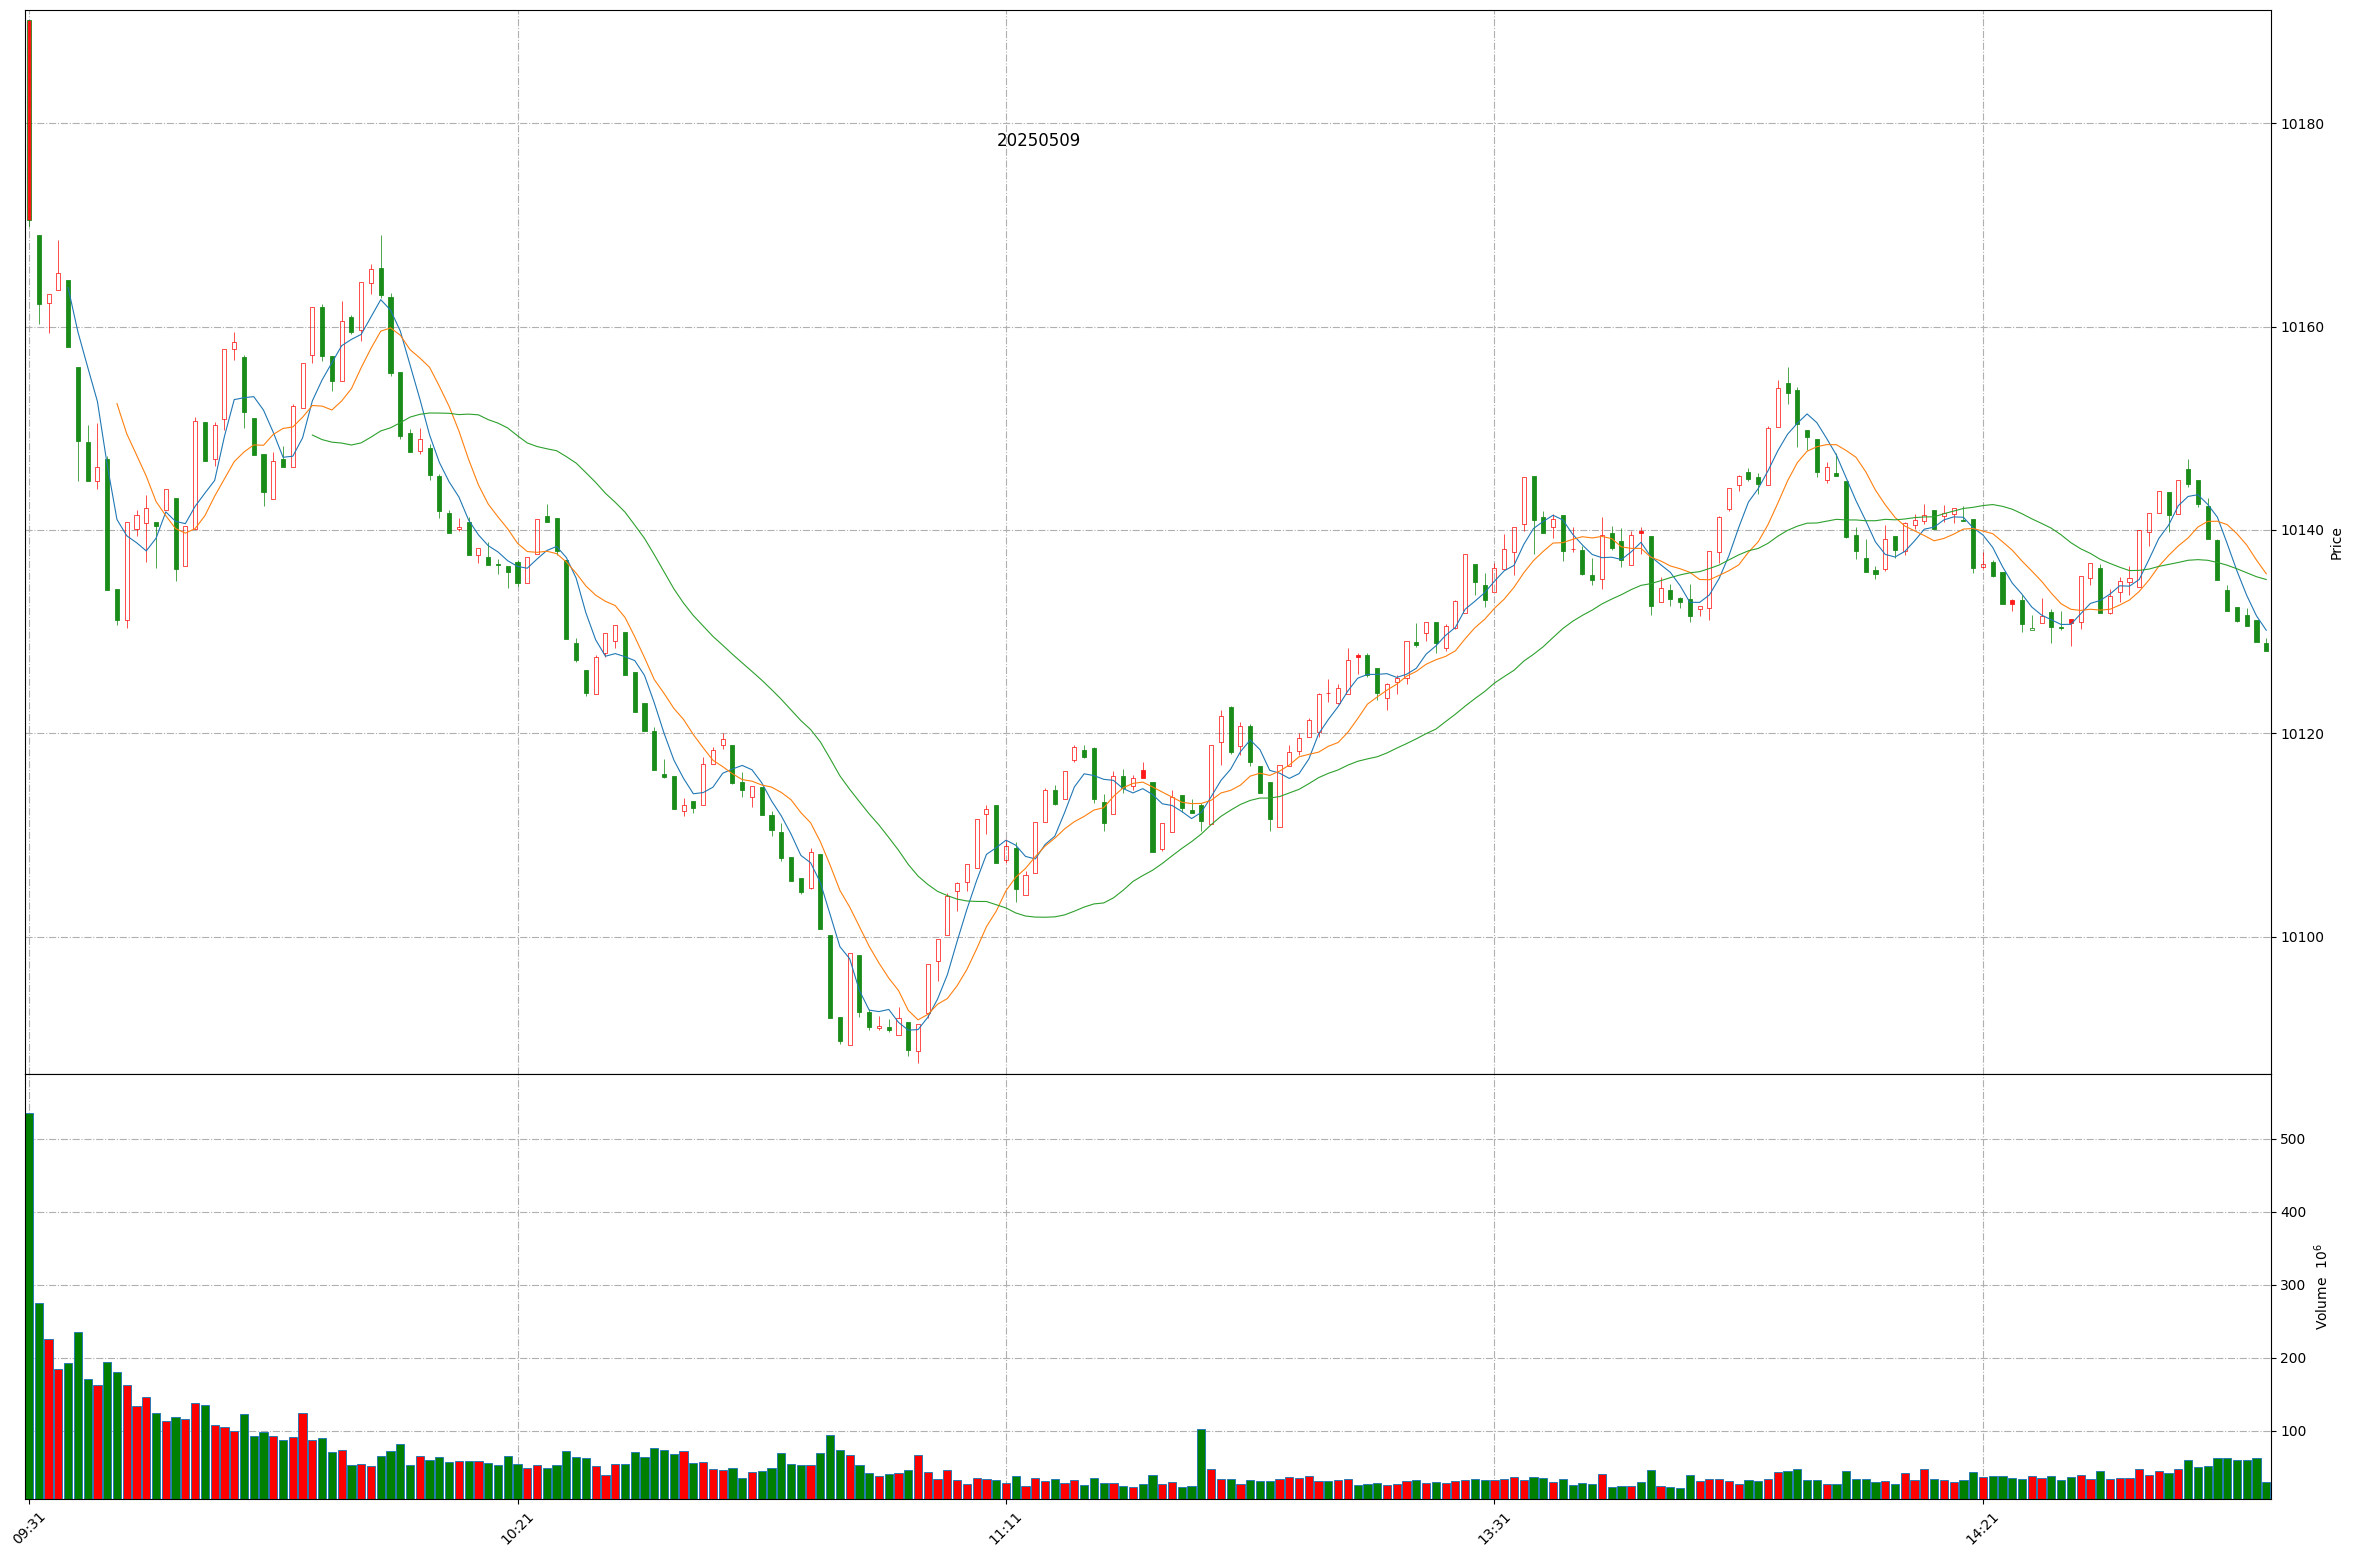
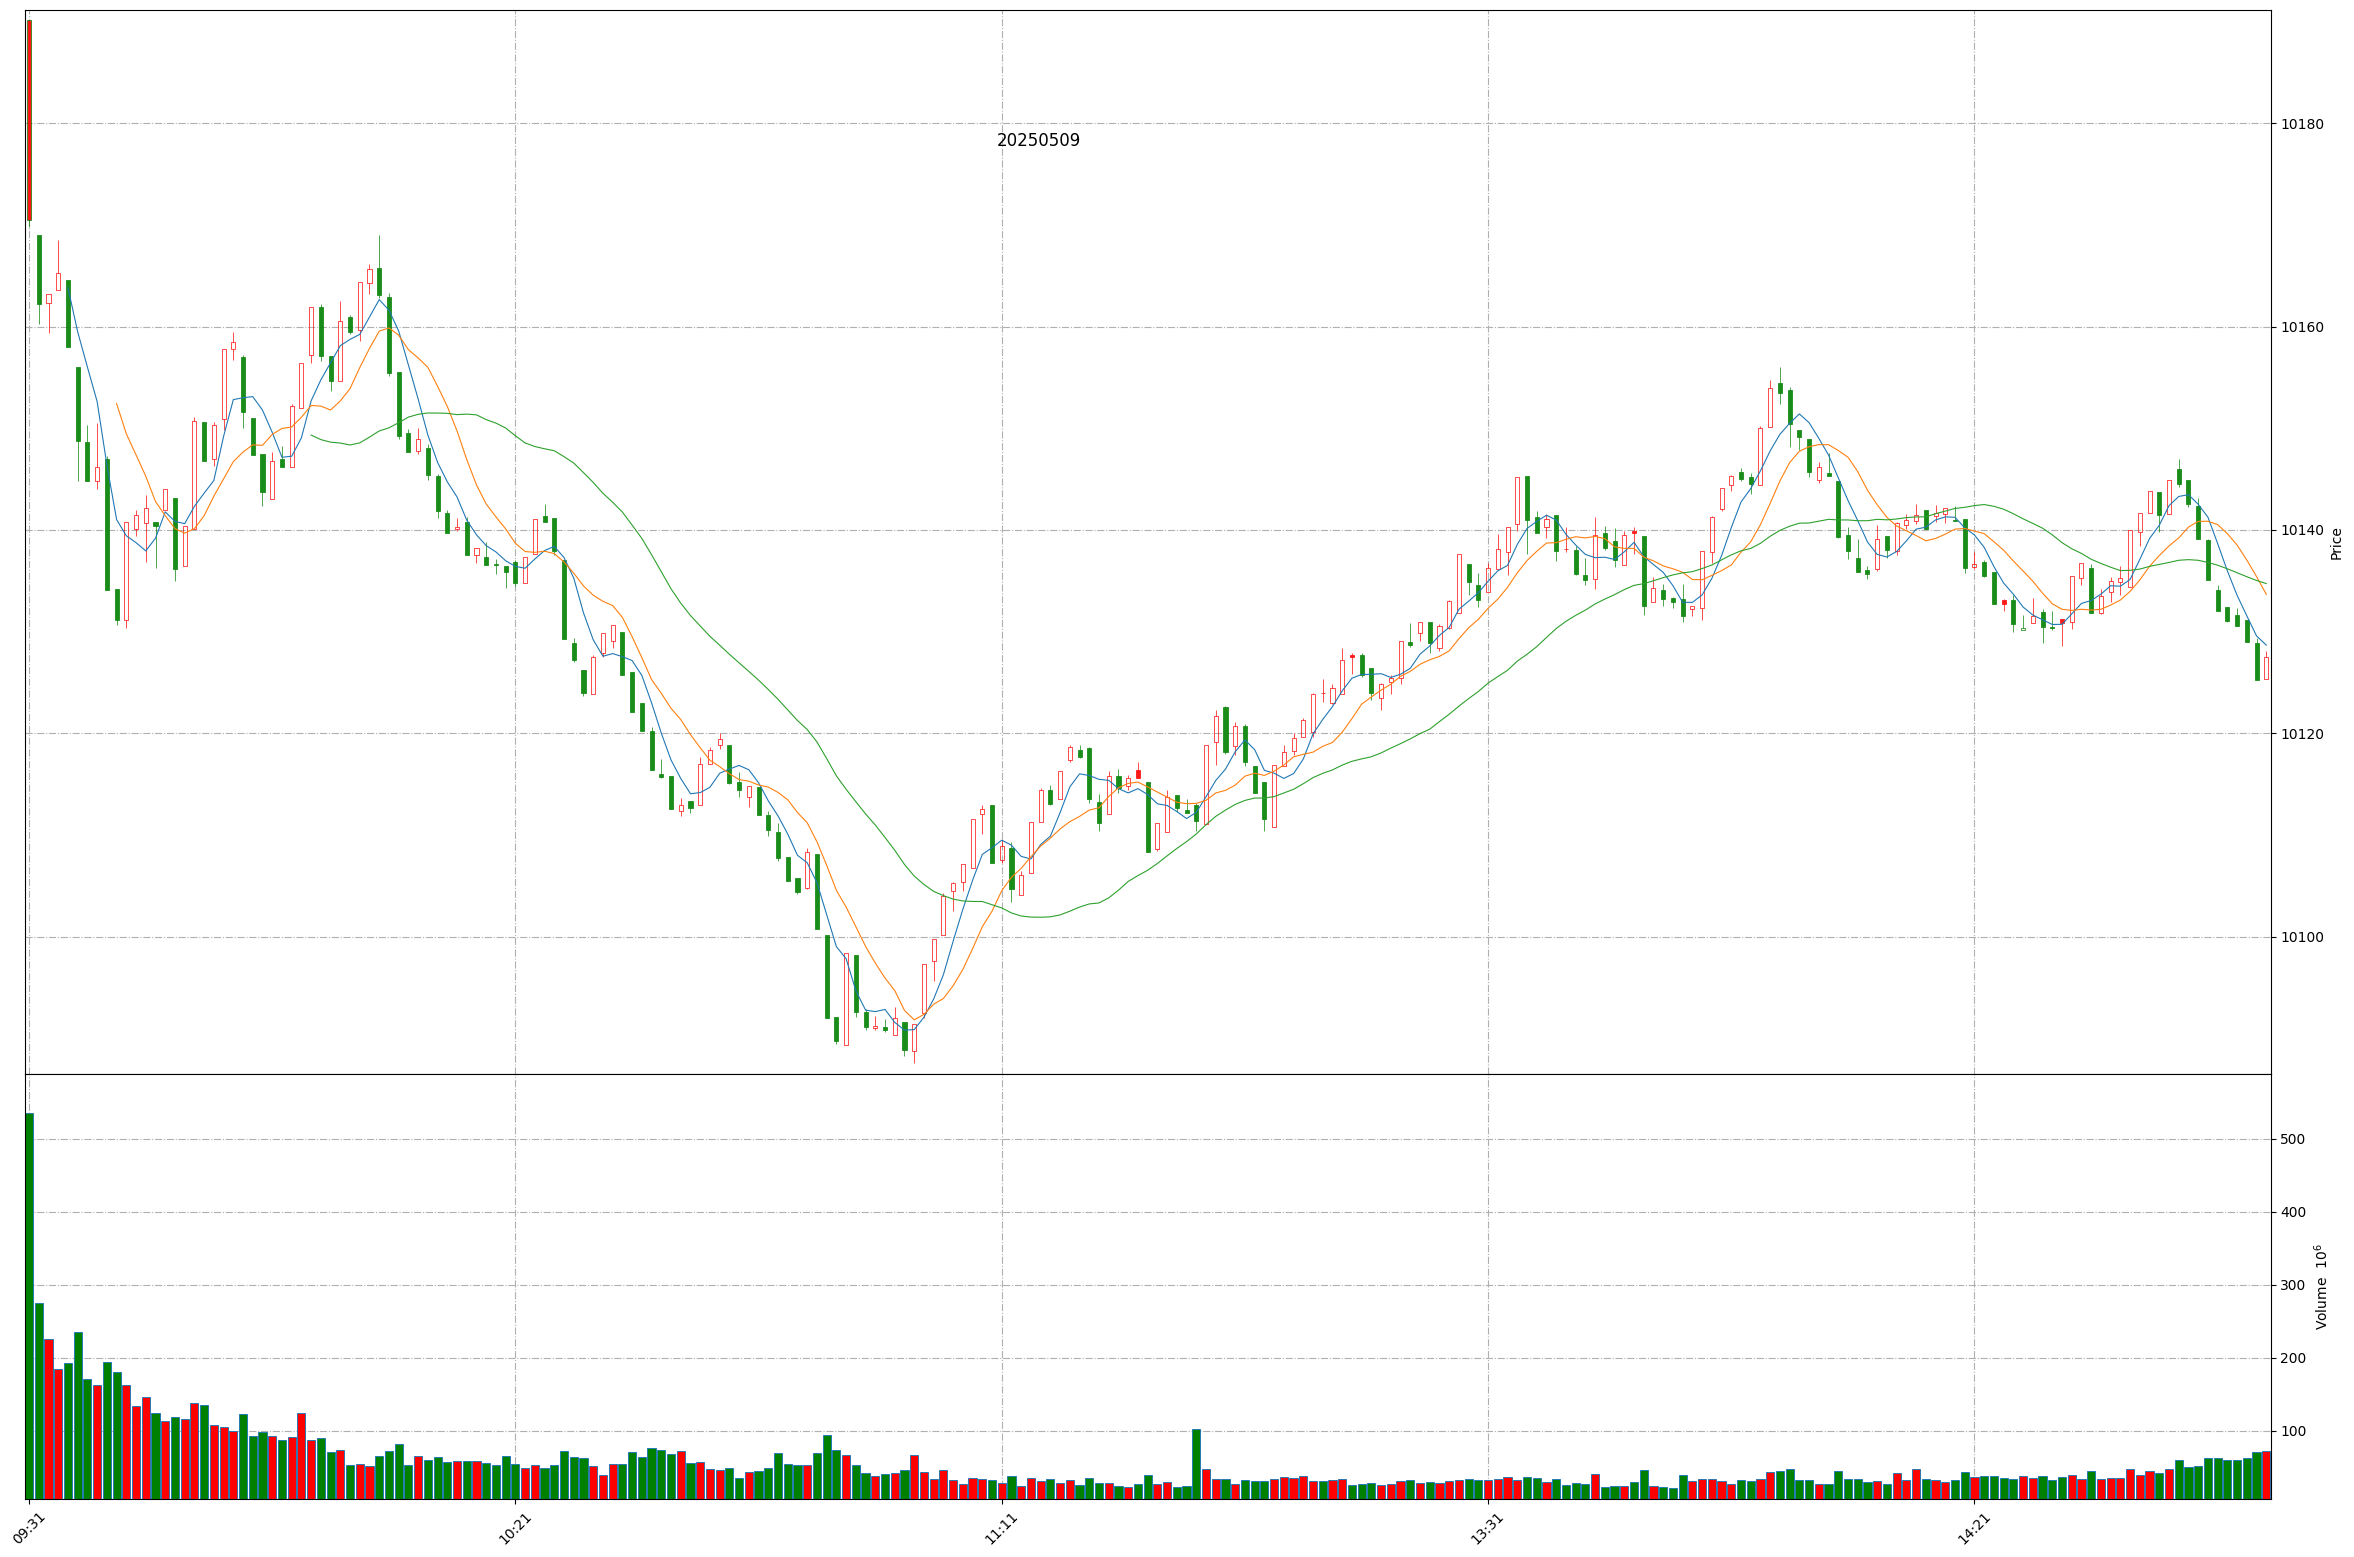
Github action update at 2025-05-09 14:51:01.

diff --git a/README.md b/README.md
@@ -1,11 +1,11 @@
 
 # Daily-A-share-market-quotes 每日 A 股指数（5min 更新）- 20250509
 
-### 上证指数 20250509 14:49
+### 上证指数 20250509 14:51
 ![](./fig/2025/5/20250509-sh000001.png)
 
-### 深证成指 20250509 14:49
+### 深证成指 20250509 14:51
 ![](./fig/2025/5/20250509-sz399001.png)
 
-### 北证50 20250509 14:49
+### 北证50 20250509 14:51
 ![](./fig/2025/5/20250509-bj899050.png)
